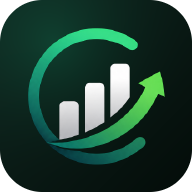
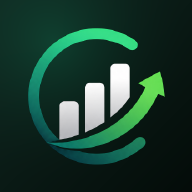
Tira a borda branca da tela de abertura
Os icones icon-192 e icon-512 tinham cantos arredondados com
transparencia em volta. O Android trata icone com transparencia como
legado e o encaixa numa placa branca — era ela que aparecia como moldura
na splash do app instalado.

Agora os dois preenchem o quadrado inteiro, sem transparencia. O
arredondamento fica por conta do sistema, que e o comportamento correto:
cada aparelho aplica o formato do seu tema.

O maskable e o apple-touch-icon ja eram sem cantos, entao nao mudaram.

sw v8, porque imagens vem do cache primeiro e nao trocariam sozinhas.

diff --git a/sw.js b/sw.js
@@ -1,7 +1,7 @@
 /* Poupaê Aurora — service worker
    Deixa o app instalável e funcionando offline. */
 
-const VERSION = "poupae-aurora-v7";
+const VERSION = "poupae-aurora-v8";
 const SHELL_CACHE = `${VERSION}-shell`;
 const RUNTIME_CACHE = `${VERSION}-runtime`;
 
